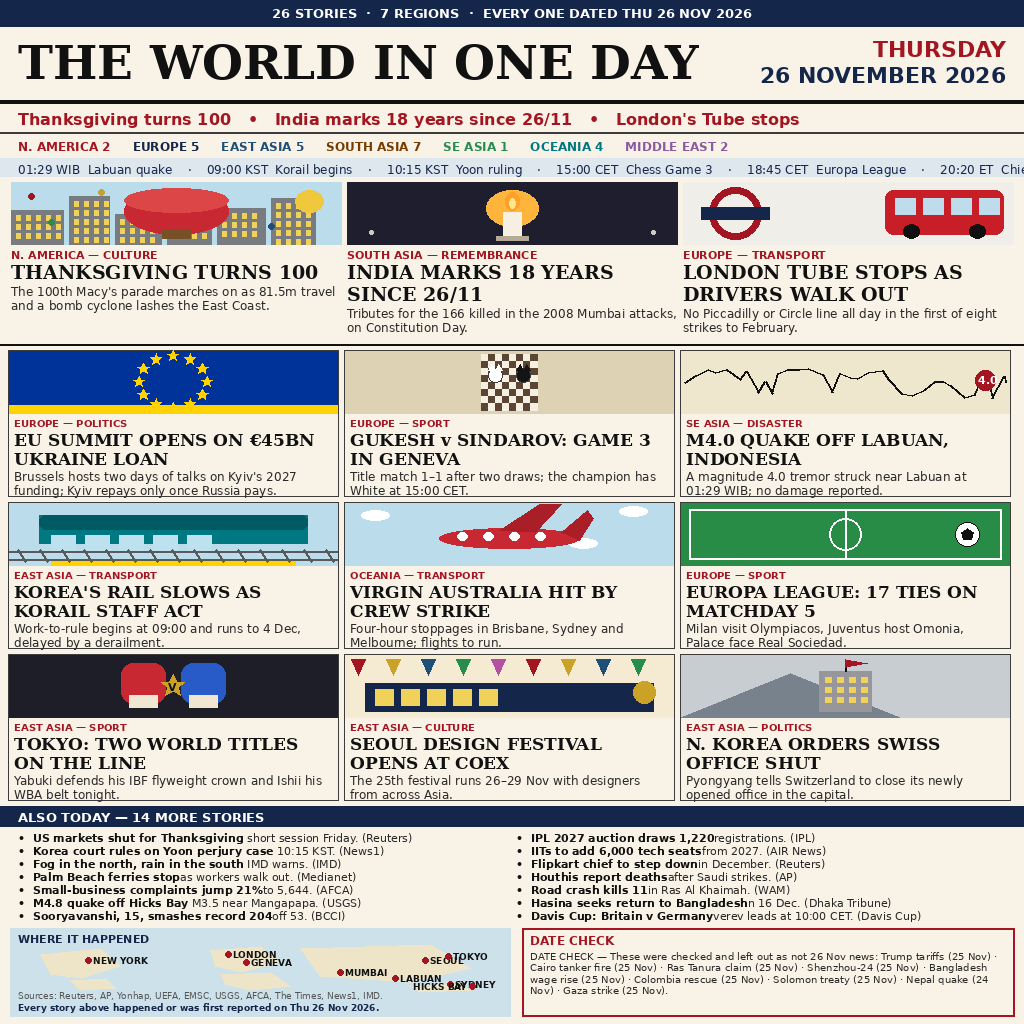
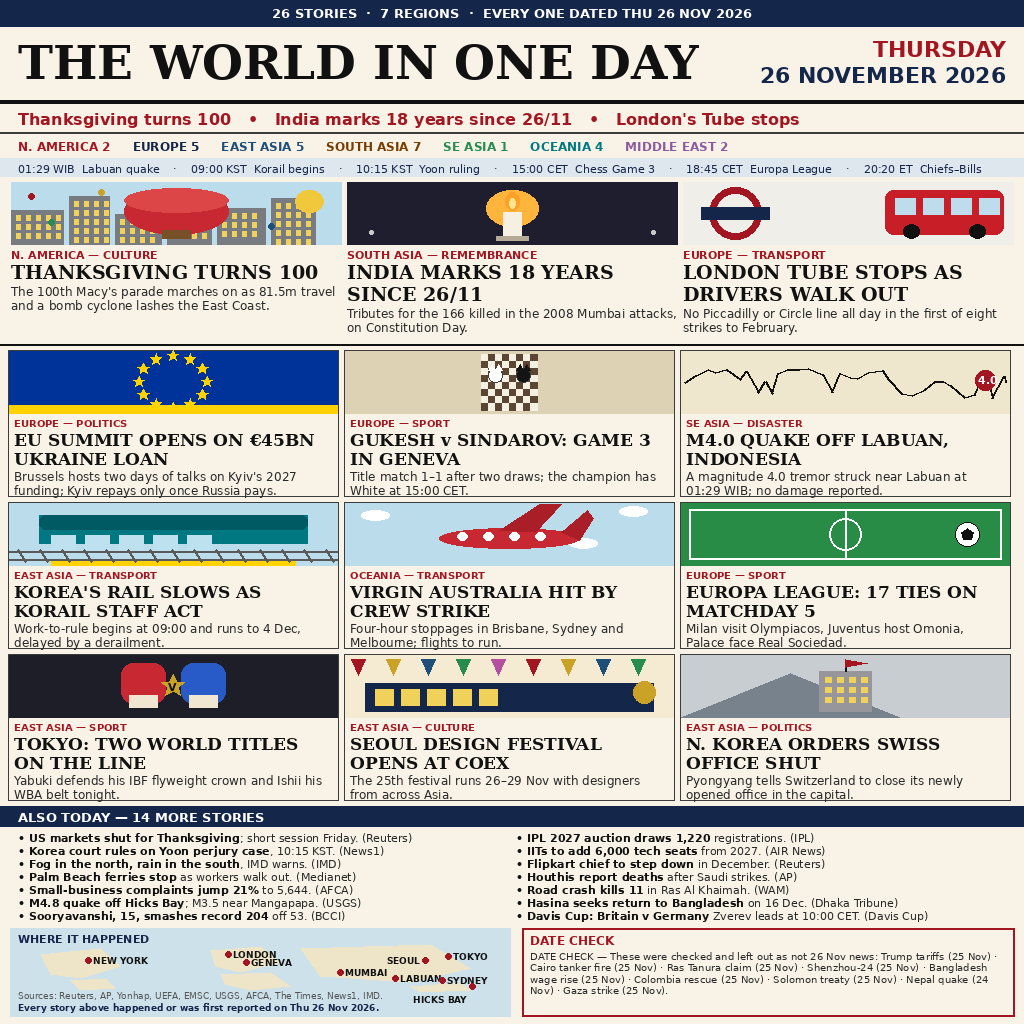
Fix visual defects: ALSO TODAY bold/plain spacing, map label collisions, timeline strip truncation

diff --git a/draw.py b/draw.py
@@ -346,8 +346,8 @@ ALSO = [
     ("Flipkart chief to step down", " in December. (Reuters)"),
     ("Houthis report deaths", " after Saudi strikes. (AP)"),
     ("Road crash kills 11", " in Ras Al Khaimah. (WAM)"),
-    ("Hasina seeks return to Bangladesh", "on 16 Dec. (Dhaka Tribune)"),
-    ("Davis Cup: Britain v Germany", "Zverev leads at 10:00 CET. (Davis Cup)"),
+    ("Hasina seeks return to Bangladesh", " on 16 Dec. (Dhaka Tribune)"),
+    ("Davis Cup: Britain v Germany", " Zverev leads at 10:00 CET. (Davis Cup)"),
 ]
 
 DATE_CHECK = ("DATE CHECK — These were checked and left out as not 26 Nov news: "
@@ -386,11 +386,14 @@ def draw_header(d):
         t = f"{name} {num}"
         d.text((x, 139), t, font=f, fill=col)
         x += d.textlength(t, font=f) + 22
-    # schedule strip
+    # schedule strip (auto-shrink so the last entry is never cut at the edge)
     d.rectangle([0, 158, W, 176], fill=(222, 230, 238))
+    sched = ["01:29 WIB  Labuan quake", "09:00 KST  Korail begins", "10:15 KST  Yoon ruling",
+             "15:00 CET  Chess Game 3", "18:45 CET  Europa League", "20:20 ET  Chiefs–Bills"]
+    t = "    ·    ".join(sched)
     f = F(SANS, 12)
-    t = ("01:29 WIB  Labuan quake    ·    09:00 KST  Korail begins    ·    10:15 KST  Yoon ruling    ·    "
-         "15:00 CET  Chess Game 3    ·    18:45 CET  Europa League    ·    20:20 ET  Chiefs–Bills")
+    while d.textlength(t, font=f) > W - 36 and f.size > 9:
+        f = F(SANS, f.size - 1)
     d.text((18, 162), t, font=f, fill=NAVY)
 
 
@@ -441,12 +444,24 @@ def draw_also(d, y, h):
         xx = 18 + col_i * (col_w + 4)
         cy = yy
         for bold, rest in items:
-            t = "•  " + bold + rest
-            lines = wrap(d, t, f2, col_w)
+            # normalize the bold/plain join: exactly one space between the
+            # bold lead and the plain tail (unless the tail starts with
+            # punctuation that attaches directly, like "," or ";").
+            if rest[:1] in (",", ";", " "):
+                full = bold + rest
+            else:
+                full = bold + " " + rest
+            prefix = "• " + bold
+            lines = wrap(d, "• " + full, f2, col_w)
             first = lines[0]
-            d.text((xx, cy), "•  " + bold, font=f1, fill=INK)
-            bw = d.textlength("•  " + bold, font=f1)
-            rem = first[len("•  " + bold):]
+            d.text((xx, cy), prefix, font=f1, fill=INK)
+            bw = d.textlength(prefix, font=f1)
+            rem = first[len(prefix):]
+            # safety net only: prepend a space when the tail starts with a
+            # word character (a leading space or punctuation is already
+            # correct as-is — never put a space before "," or ";").
+            if rem and rem[0].isalnum():
+                rem = " " + rem
             d.text((xx + bw, cy), rem, font=f2, fill=(40, 40, 40))
             cy += 13
             for ln in lines[1:]:
@@ -474,17 +489,27 @@ def draw_bottom(d, y, h):
                (mx + 310, my + 48)], fill=land)  # Asia
     d.polygon([(mx + 400, my + 58), (mx + 450, my + 54), (mx + 460, my + 62), (mx + 410, my + 64)],
               fill=land)  # Oceania
-    pins = [("NEW YORK", 78, 32), ("LONDON", 218, 26), ("GENEVA", 236, 34),
-            ("MUMBAI", 330, 44), ("SEOUL", 415, 32), ("TOKYO", 438, 28),
-            ("LABUAN", 385, 50), ("SYDNEY", 440, 56), ("HICKS BAY", 462, 58)]
+    # (name, px, py, label anchor): "right" (default), "left", or "below".
+    # Anchors are chosen so no two labels overlap (SEOUL/TOKYO, LABUAN/
+    # HICKS BAY/SYDNEY all collided with plain right-side labels).
+    pins = [("NEW YORK", 78, 32, "right"), ("LONDON", 218, 26, "right"),
+            ("GENEVA", 236, 34, "right"), ("MUMBAI", 330, 44, "right"),
+            ("SEOUL", 415, 32, "left"), ("TOKYO", 438, 28, "right"),
+            ("LABUAN", 385, 50, "right"), ("SYDNEY", 432, 52, "right"),
+            ("HICKS BAY", 462, 58, "below")]
     f = F(SANS_B, 9)
-    for name, px, py in pins:
+    for name, px, py, anchor in pins:
         d.ellipse([mx + px - 3, my + py - 3, mx + px + 3, my + py + 3], fill=RED)
         tw = d.textlength(name, font=f)
-        lx = mx + px + 5
-        if lx + tw > mx + mw - 4:
-            lx = mx + px - 5 - tw
-        d.text((lx, my + py - 5), name, font=f, fill=INK)
+        if anchor == "left":
+            lx, ly = mx + px - 5 - tw, my + py - 5
+        elif anchor == "below":
+            lx, ly = mx + px - 5 - tw, my + py + 8
+        else:
+            lx, ly = mx + px + 5, my + py - 5
+            if lx + tw > mx + mw - 4:
+                lx = mx + px - 5 - tw
+        d.text((lx, ly), name, font=f, fill=INK)
     d.text((mx + 8, my + mh - 26),
            "Sources: Reuters, AP, Yonhap, UEFA, EMSC, USGS, AFCA, The Times, News1, IMD.",
            font=F(SANS, 9), fill=GREY)
